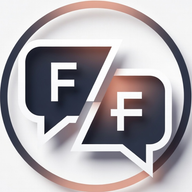
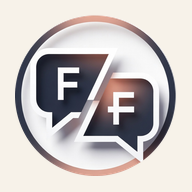
[Fuller Feuds Dev] Match the Android PWA splash to the paper loading screen
The installed-app splash used Editorial black and a white/grey icon tile,
so opening from the home screen flashed a dark screen before the cream
shell. Point the manifest, theme-color, and first paint at #f7f2e9, and
rebuild the PWA icons as the existing logo on that same paper.

diff --git a/client/index.html b/client/index.html
@@ -1,5 +1,5 @@
 <!DOCTYPE html>
-<html lang="en">
+<html lang="en" style="background:#f7f2e9">
   <head>
     <meta charset="UTF-8" />
     <title>Fuller Feuds - Every opinion. One fair fight.</title>
@@ -8,7 +8,7 @@
     
     <!-- PWA Configuration -->
     <link rel="manifest" href="/manifest.json" />
-    <meta name="theme-color" content="#f6efe1" />
+    <meta name="theme-color" content="#f7f2e9" />
     <script>
       // Apply the saved light/medium/dark preference before first paint (Settings writes localStorage "theme").
       (function () {
@@ -16,15 +16,20 @@
           var t = localStorage.getItem("theme");
           if (t === "dark" || t === "medium") {
             document.documentElement.classList.add(t);
+            var bg = t === "dark" ? "#1a1612" : "#2b251f";
             var m = document.querySelector('meta[name="theme-color"]');
-            if (m) m.setAttribute("content", t === "dark" ? "#1a1612" : "#2b251f");
+            if (m) m.setAttribute("content", bg);
+            document.documentElement.style.background = bg;
+            document.addEventListener("DOMContentLoaded", function () {
+              document.body.style.background = bg;
+            });
           }
         } catch (e) {}
       })();
     </script>
     <meta name="mobile-web-app-capable" content="yes" />
     <meta name="apple-mobile-web-app-capable" content="yes" />
-    <meta name="apple-mobile-web-app-status-bar-style" content="black-translucent" />
+    <meta name="apple-mobile-web-app-status-bar-style" content="default" />
     <meta name="apple-mobile-web-app-title" content="Fuller Feuds" />
     
     <!-- PWA Icons -->
@@ -35,27 +40,25 @@
     <link rel="preconnect" href="https://fonts.googleapis.com">
     <link rel="preconnect" href="https://fonts.gstatic.com" crossorigin>
     <link href="https://fonts.googleapis.com/css2?family=Inter:ital,opsz,wght@0,14..32,100..900;1,14..32,100..900&family=JetBrains+Mono:ital,wght@0,100..800;1,100..800&family=Anton&family=Playfair+Display:ital,wght@0,600..900;1,600..900&family=Source+Serif+4:ital,opsz,wght@0,8..60,400..700;1,8..60,400..700&display=swap" rel="stylesheet">
-    <!-- Launch screen (Fuller Feuds Dev, Nov 2026): Editorial black / red with thin gold accents; logo artwork unchanged.
-         Shown before React mounts (inside #root) and reused by the app's auth-loading state (LaunchScreen.tsx). -->
+    <!-- Launch screen: paper page color so the Android/PWA splash, first paint, and
+         "Loading debates..." shell do not flash dark-to-cream. Logo artwork unchanged. -->
     <style>
+      html,body{background:#f7f2e9;margin:0}
       .ff-launch{position:fixed;inset:0;z-index:9999;display:flex;flex-direction:column;align-items:center;justify-content:center;gap:22px;
-        background:radial-gradient(120% 80% at 50% 38%,#231d18 0%,#14110e 60%,#0d0b09 100%);color:#f6efe1;}
-      .ff-launch::before,.ff-launch::after{content:"";position:absolute;left:24px;right:24px;height:0;border-top:1px solid rgba(227,184,90,.55);}
-      .ff-launch::before{top:24px;border-bottom:1px solid rgba(227,184,90,.25);height:3px}
-      .ff-launch::after{bottom:24px;border-bottom:1px solid rgba(227,184,90,.25);height:3px}
-      .ff-launch-logo{width:148px;height:148px;border-radius:50%;padding:5px;border:1.5px solid #e3b85a;box-shadow:0 0 0 6px rgba(227,184,90,.08),0 18px 40px rgba(0,0,0,.55);}
+        background:#f7f2e9;color:#211c17;}
+      .ff-launch-logo{width:148px;height:148px;border-radius:50%;}
       .ff-launch-logo img{width:100%;height:100%;border-radius:50%;display:block}
-      .ff-launch-word{font-family:Anton,Impact,"Arial Narrow",sans-serif;font-size:40px;letter-spacing:.03em;line-height:1;text-transform:uppercase;margin:0}
-      .ff-launch-word span{color:#c8322b}
-      .ff-launch-rule{width:120px;height:1px;background:linear-gradient(90deg,transparent,#e3b85a,transparent)}
-      .ff-launch-tag{font-family:"Playfair Display",Georgia,serif;font-style:italic;font-size:15px;color:#d9c9a8;margin:0}
-      .ff-launch-bar{width:96px;height:2px;background:rgba(227,184,90,.18);overflow:hidden;border-radius:2px}
-      .ff-launch-bar i{display:block;width:40%;height:100%;background:#c8322b;animation:ffbar 1.1s ease-in-out infinite}
+      .ff-launch-word{font-family:Anton,Impact,"Arial Narrow",sans-serif;font-size:40px;letter-spacing:.03em;line-height:1;text-transform:uppercase;margin:0;color:#211c17}
+      .ff-launch-word span{color:#8c2121}
+      .ff-launch-rule{width:120px;height:1px;background:linear-gradient(90deg,transparent,#211c17,transparent);opacity:.35}
+      .ff-launch-tag{font-family:"Playfair Display",Georgia,serif;font-style:italic;font-size:15px;color:#5f574e;margin:0}
+      .ff-launch-bar{width:96px;height:2px;background:rgba(33,28,23,.12);overflow:hidden;border-radius:2px}
+      .ff-launch-bar i{display:block;width:40%;height:100%;background:#8c2121;animation:ffbar 1.1s ease-in-out infinite}
       @keyframes ffbar{0%{transform:translateX(-110%)}100%{transform:translateX(260%)}}
       @media (prefers-reduced-motion:reduce){.ff-launch-bar i{animation:none;width:100%}}
     </style>
   </head>
-  <body>
+  <body style="background:#f7f2e9;margin:0">
     <div id="root"><div class="ff-launch" role="status" aria-label="Loading Fuller Feuds"><div class="ff-launch-logo"><img src="/launch-logo-512.png" alt="" /></div><p class="ff-launch-word">Fuller <span>Feuds</span></p><div class="ff-launch-rule"></div><p class="ff-launch-tag">Every opinion. One fair fight.</p><div class="ff-launch-bar"><i></i></div></div></div>
     <script type="module" src="/src/main.tsx"></script>
   </body>

diff --git a/CHANGELOG-BOT.md b/CHANGELOG-BOT.md
@@ -1,3 +1,10 @@
+## 2026-11-12 (06:30 CST) — Match the installed-app splash to the paper loading screen
+
+- **By:** Fuller Feuds Dev
+- **Branch:** `fix/pwa-splash-paper`
+- **What:** The Android home-screen splash was still the old Editorial black (`background_color` / `theme_color` `#14110e`) with a white/grey rounded icon tile, so opening the app showed a dark splash (and the dark in-page launch) before the cream "Loading debates..." shell. Set the manifest, `<meta name="theme-color">`, and `html`/`body` first-paint background to the page paper color `#f7f2e9` (`--background`). Rebuilt 64/192/512 and maskable/apple-touch icons as the existing logo on that same paper (logo artwork unchanged) so Android does not draw a white tile. Color-matched the pre-React / auth launch screen to paper as well, otherwise a paper splash would still flash through a dark in-page loader. Name/short_name remain "Fuller Feuds". The native splash is baked into the WebAPK and will not change on a regular refresh — see the PR notes.
+- **Typecheck:** 52 (CSS/HTML/JSON/PNG only).
+
 ## 2026-11-12 (06:05 CST) — Copy repo public/ assets into the production build
 
 - **By:** Fuller Feuds Dev
